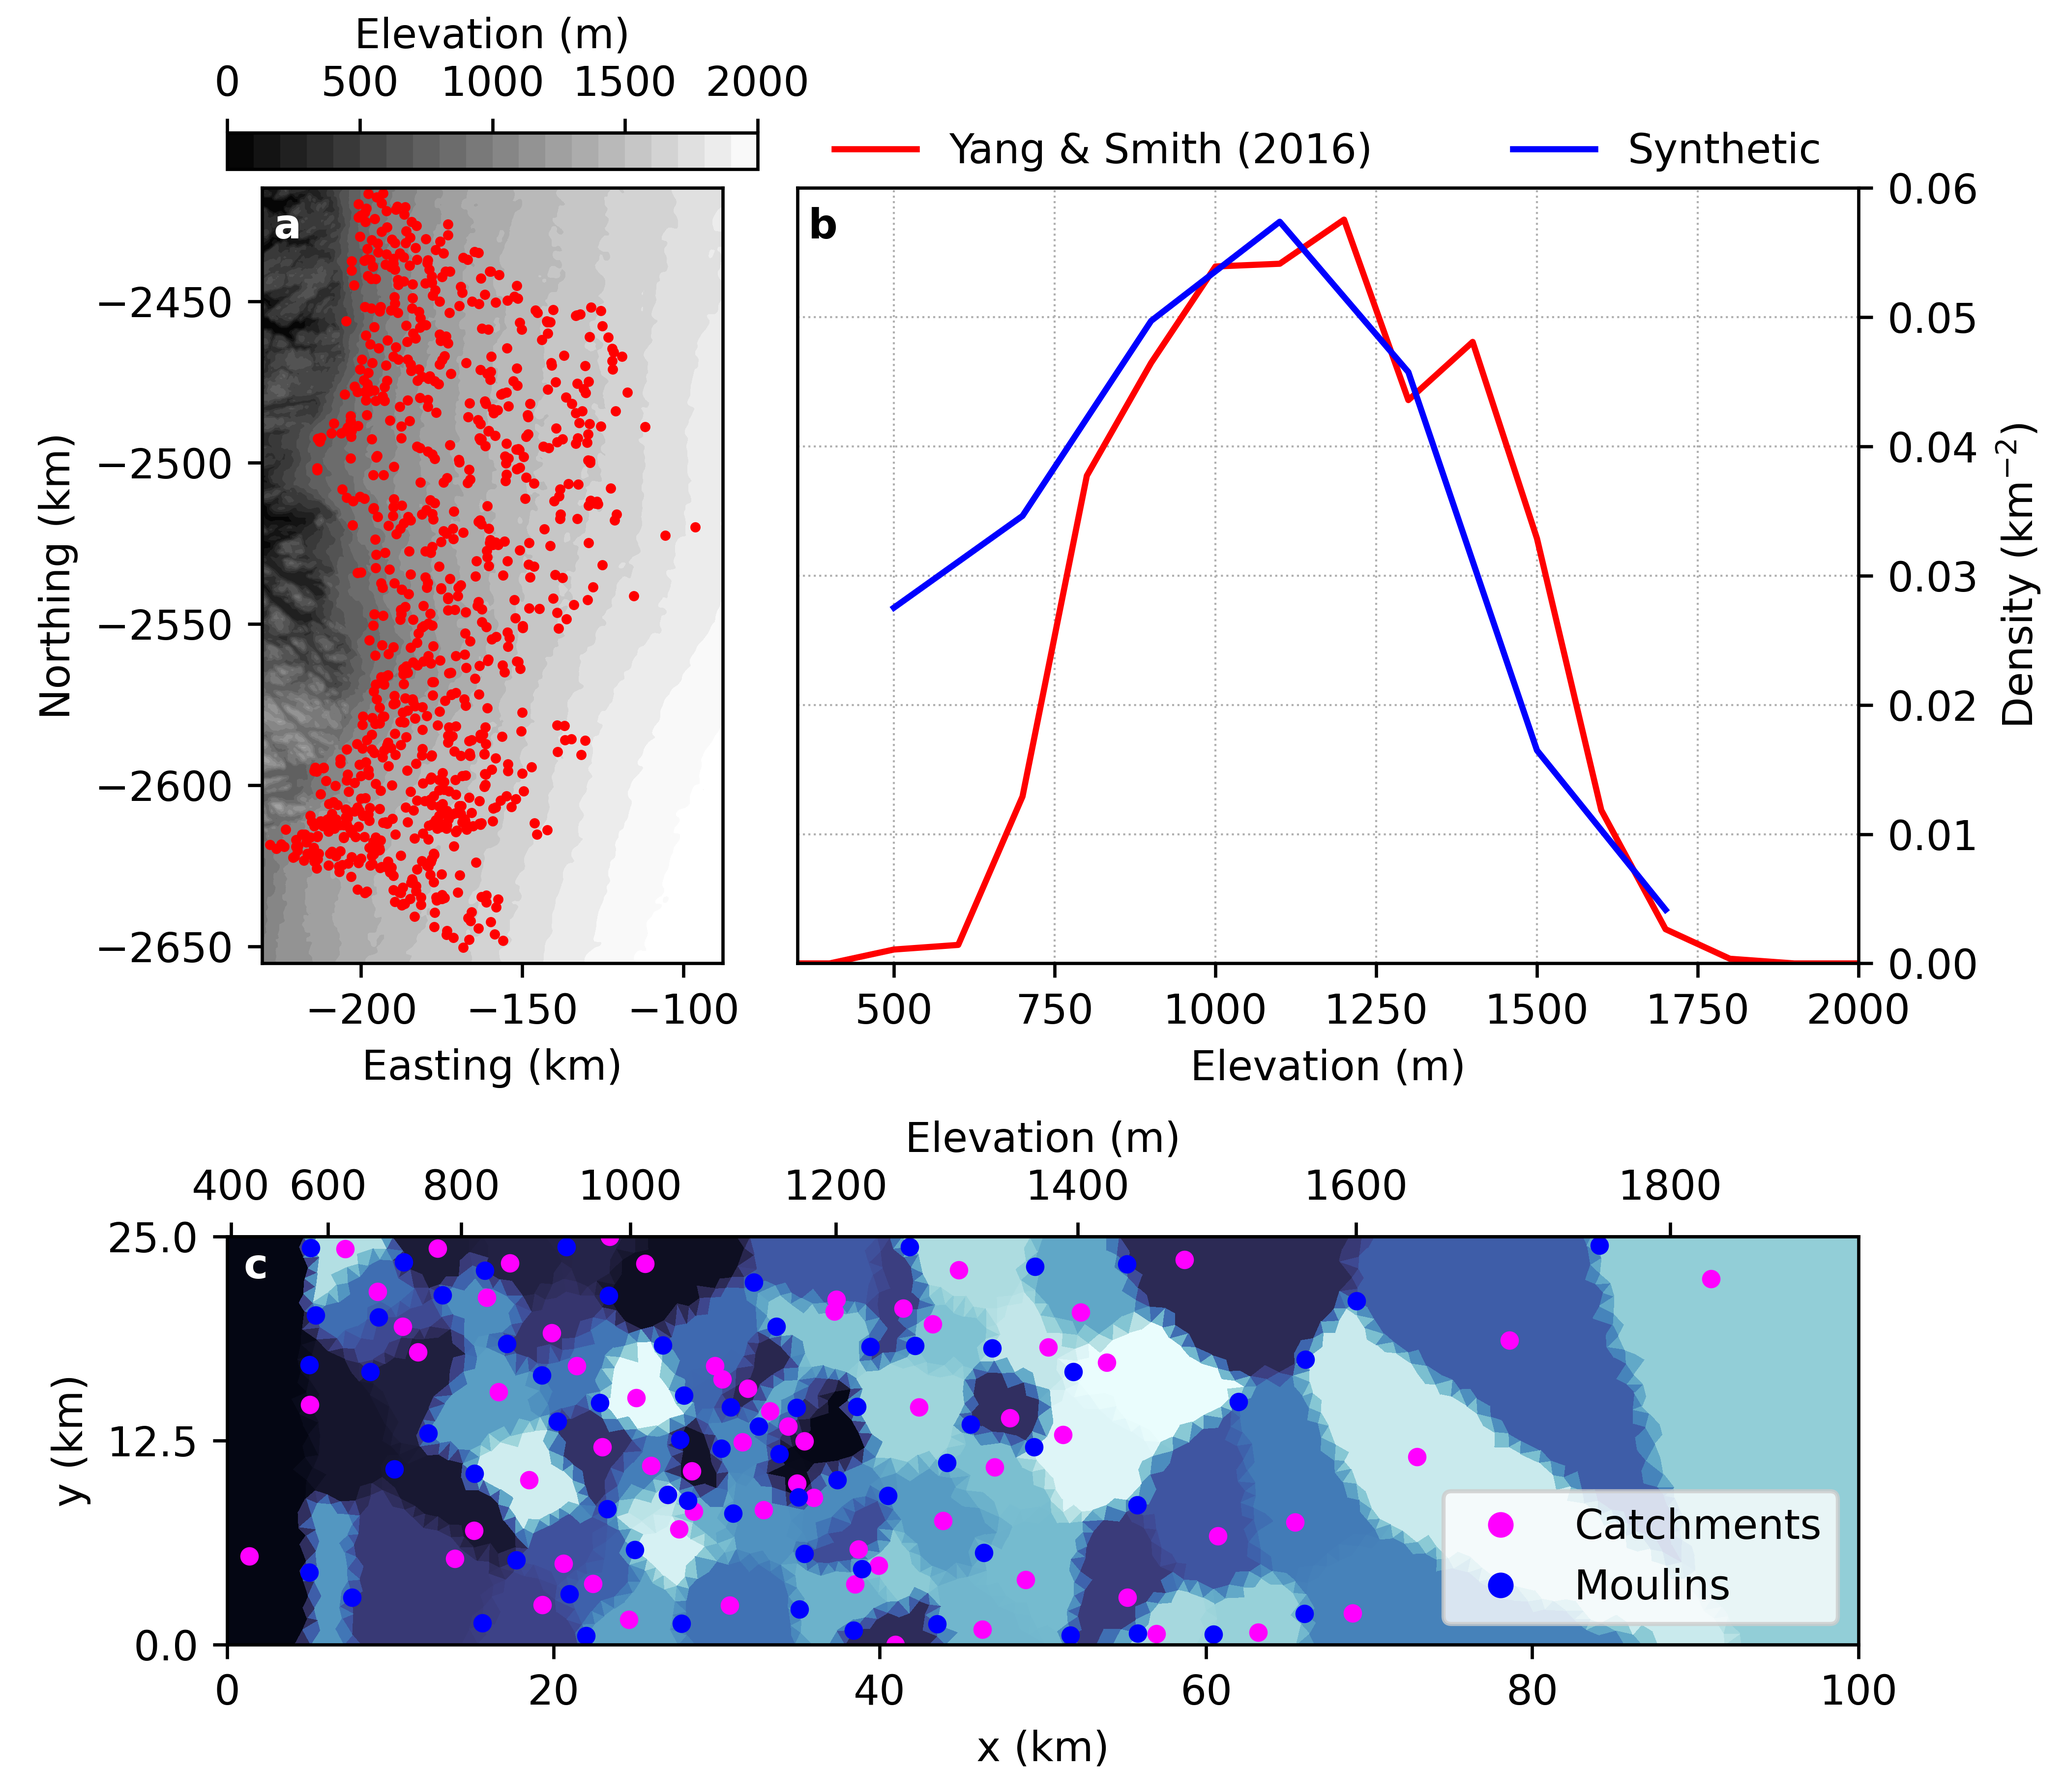
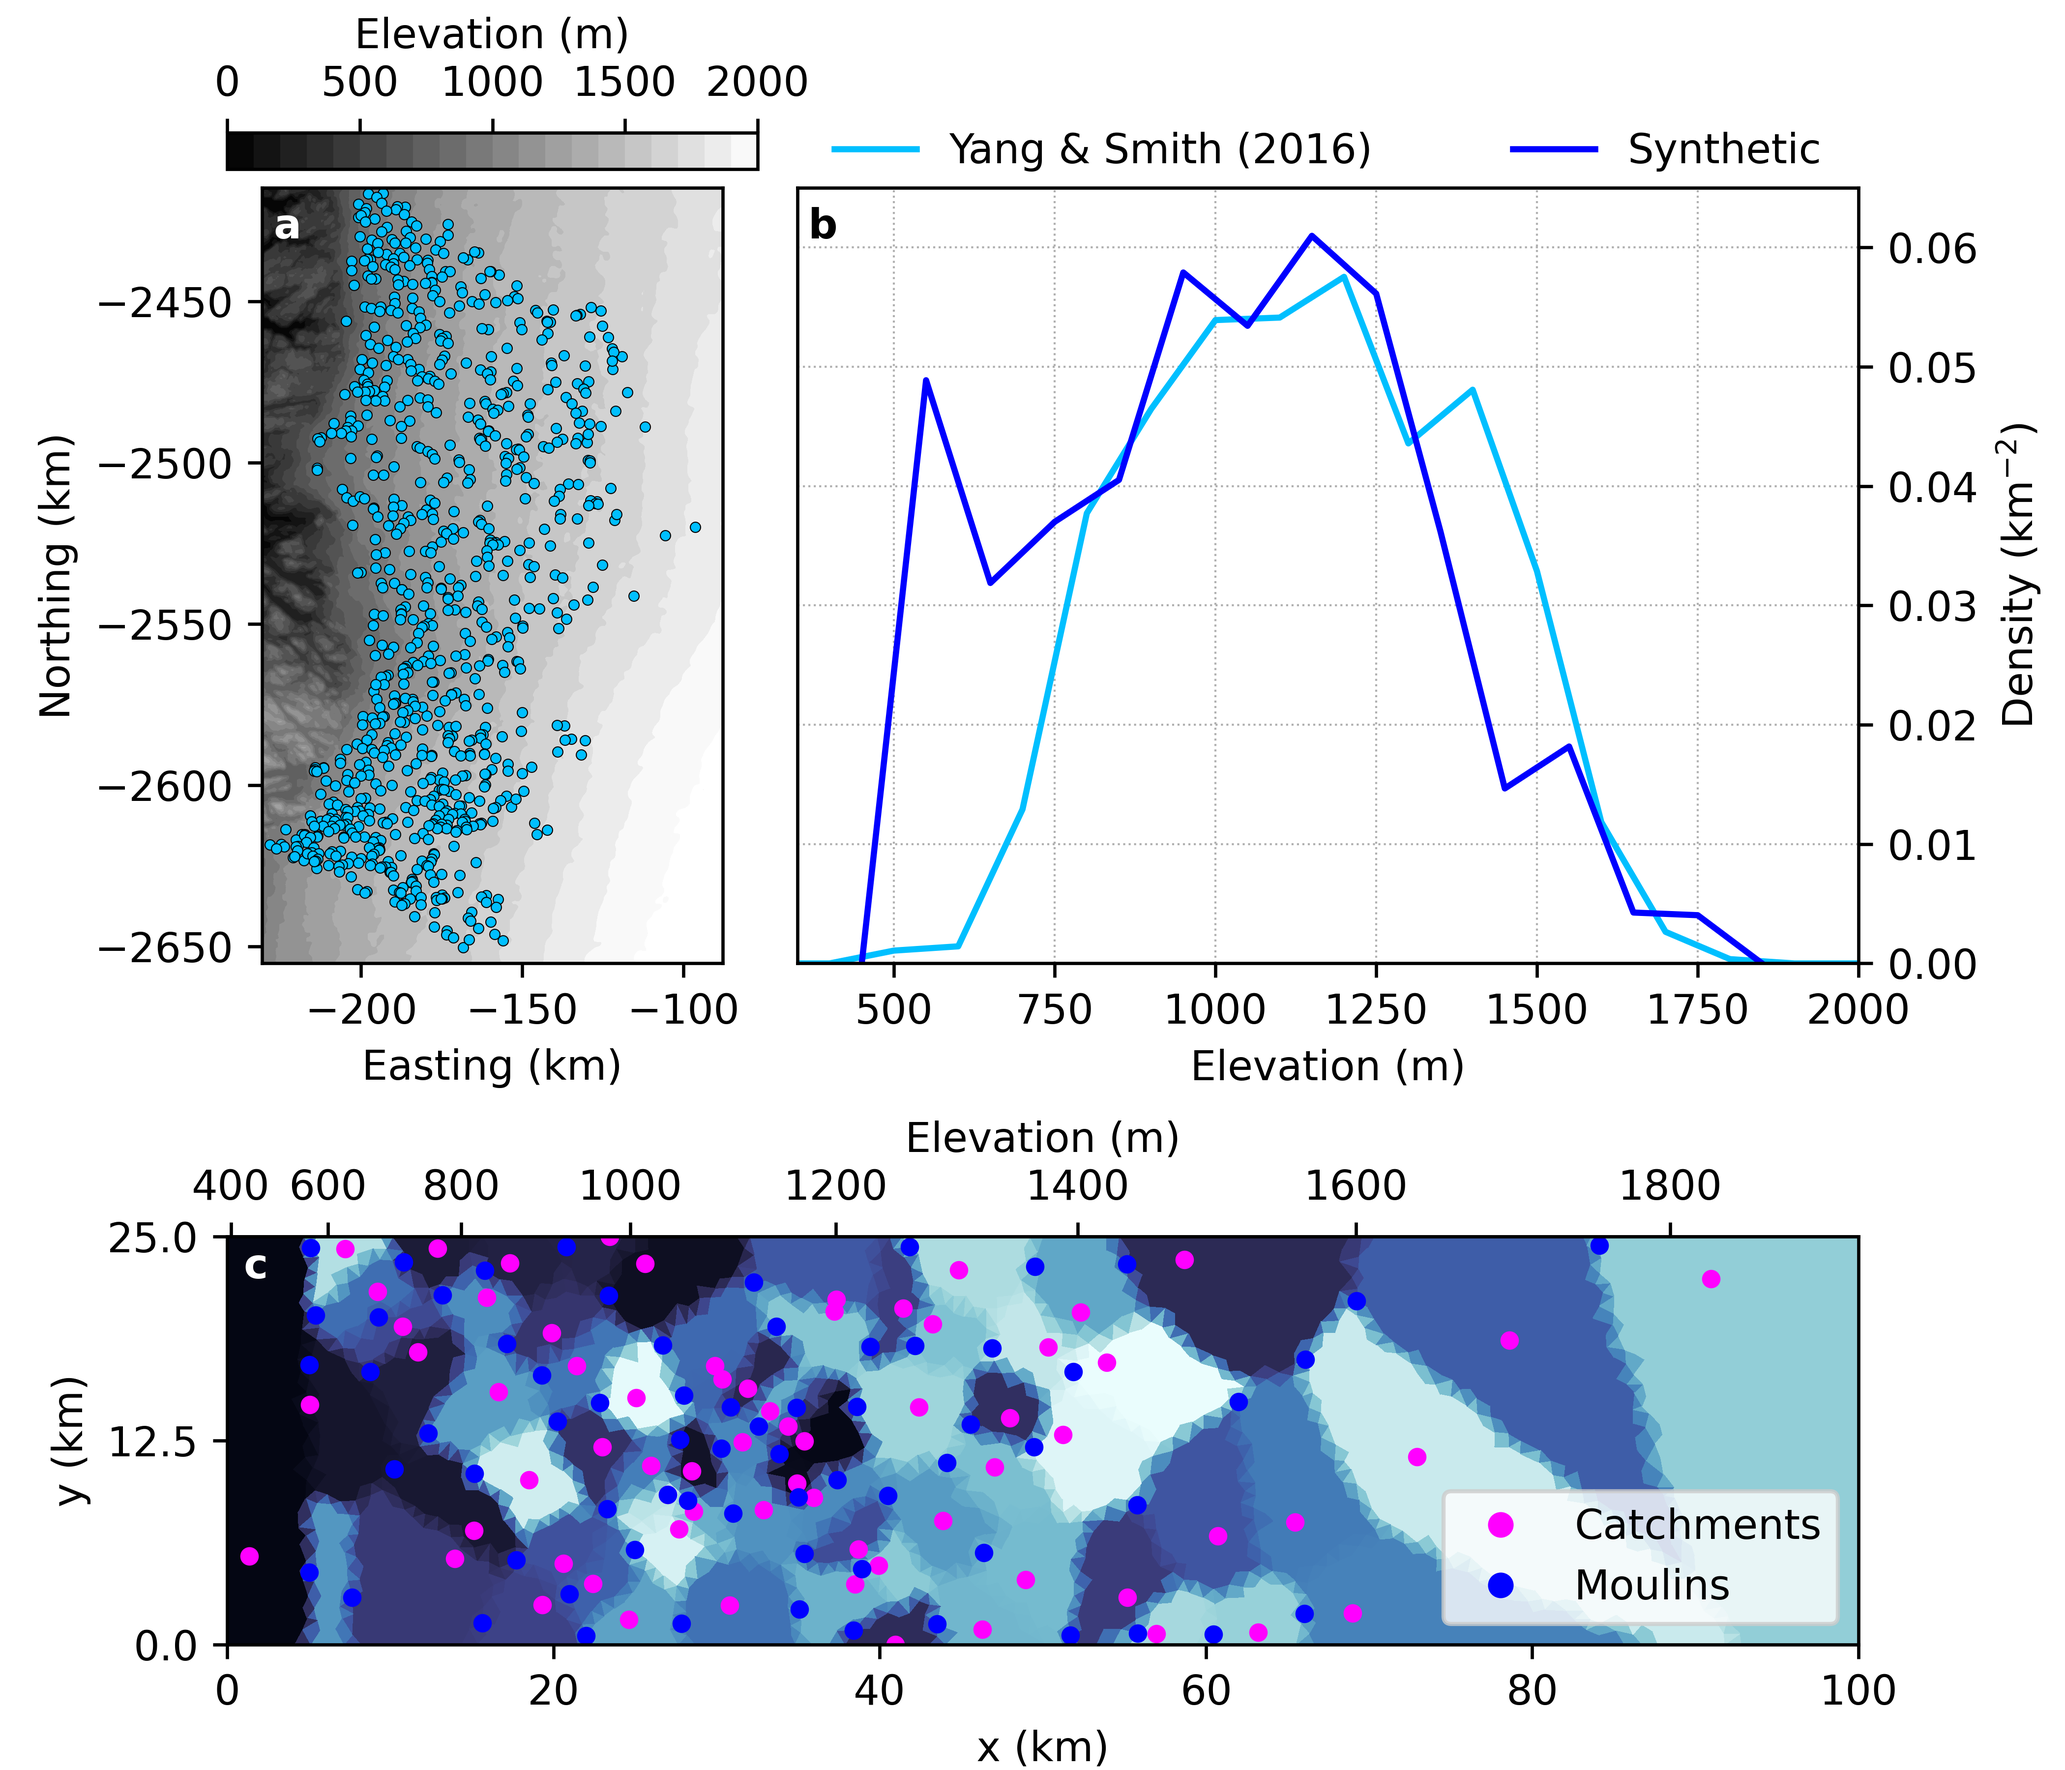
Update moulin figure colors

diff --git a/glads/data/yang2016_moulins/plot_synthetic_moulins.py b/glads/data/yang2016_moulins/plot_synthetic_moulins.py
@@ -32,7 +32,7 @@ figname = 'moulin_design.png'
 
 # Plot parameters
 figsize=(7, 6)
-data_color = 'r'
+data_color = 'deepskyblue'
 synth_color = 'b'
 
 #######################################
@@ -92,7 +92,7 @@ mouliny = moulins[:, 2]
 moulinz = surf_fun(moulinx)
 catchment_labels = np.loadtxt(synthetic_catchment_file)
 catchments = np.loadtxt(synthetic_catchment_centers)
-z_bins = np.arange(400, 2000, 200)
+z_bins = np.arange(400, 2000, 100)
 n_moulin_bins = np.zeros(z_bins.shape)
 density_bins = np.zeros(len(z_bins)-1)
 tri_surf = surf_fun(dmesh['tri/nodes'][0].data.T)
@@ -124,7 +124,7 @@ cax = fig.add_subplot(gs[0, 0])
 pc = ax0.contourf(dem_xx/1e3, dem_yy/1e3, dem, cmap='gray', 
     levels=np.arange(0, 2100, 100))
 ax0.plot(XY[:, 0]/1e3, XY[:, 1]/1e3, linestyle='', marker='.', markersize=5,
-    color=data_color, markeredgecolor='none')
+    color=data_color, markeredgecolor='k', markeredgewidth=0.25)
 ax0.set_aspect('equal')
 ax0.set_xlabel('Easting (km)')
 ax0.set_ylabel('Northing (km)')
@@ -141,7 +141,7 @@ ax1.set_ylabel('Density (km$^{-2}$)')
 ax1.set_xlabel('Elevation (m)')
 ax1.grid(linestyle=':', linewidth=0.5)
 ax1.set_xlim([350, 2000])
-ax1.set_ylim([0, 0.06])
+ax1.set_ylim([0, 0.065])
 ax1.legend(bbox_to_anchor=(0, 1.02, 1, 0.1), ncol=2, mode='expand',
     frameon=False)
 ax1.text(0.01, 0.975, 'b', va='top', fontweight='bold',
